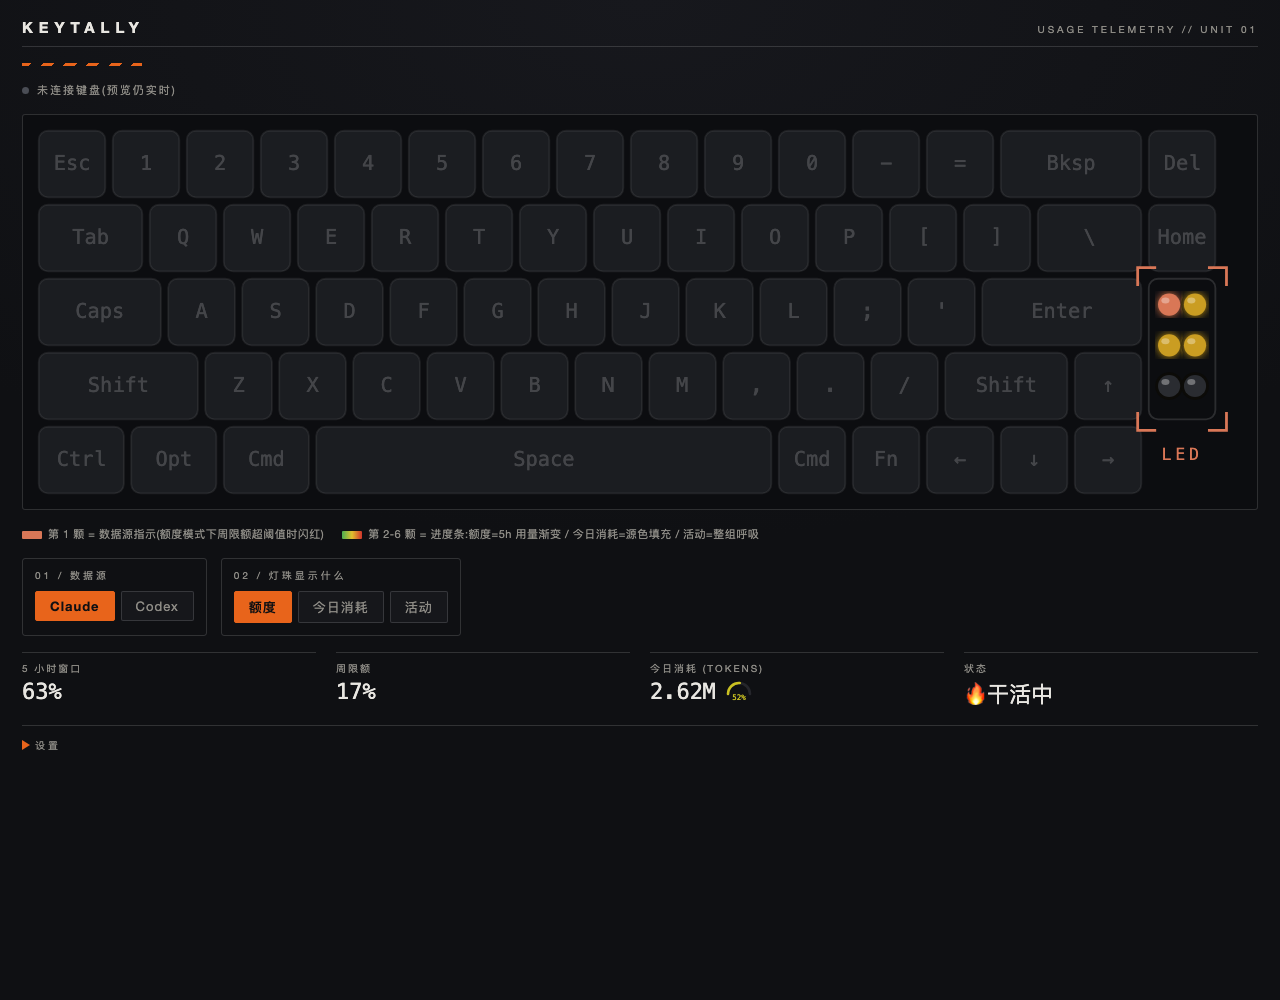
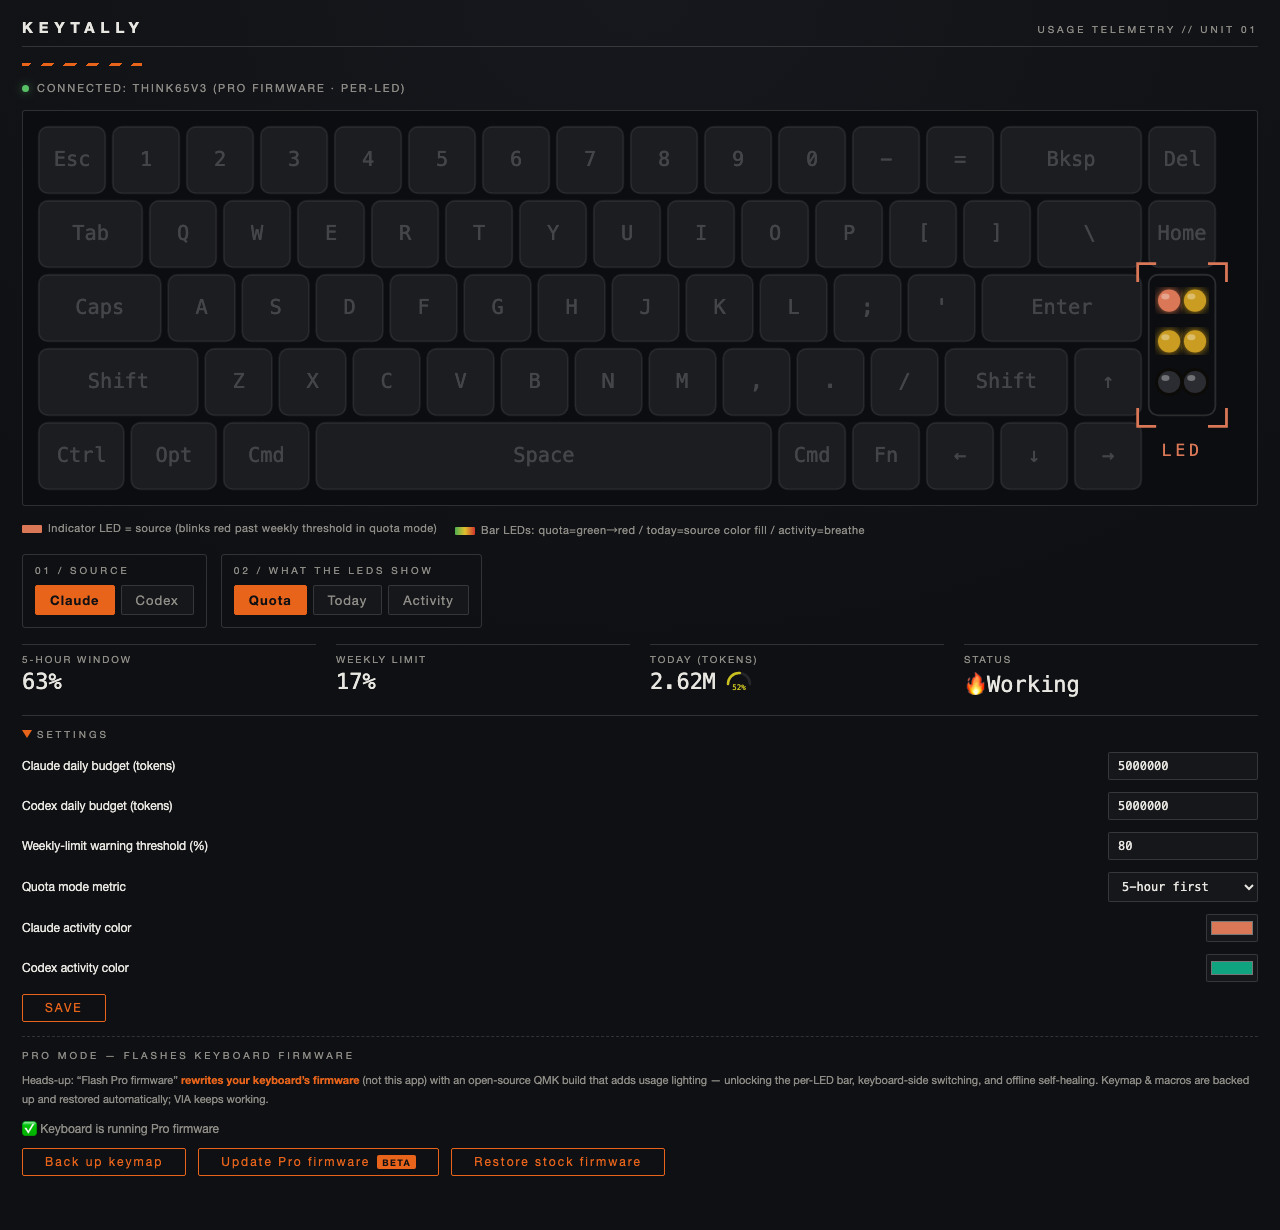
feat: bilingual UI (auto EN/zh by OS locale) + onboarding docs pass
- frontend i18n: all labels, stats, PRO section, LED panel, flash
  progress messages translated; static HTML swapped at load for EN
- screenshot rig: ?pro&settings simulates connected Pro state with
  settings expanded; hero re-shot in English with device connected
- hooks/README.md with exact settings.json / config.toml snippets
- README: Releases download section, credentials/privacy FAQ,
  firmware prereqs spelled out (tap trust, qmk_firmware checkout)

diff --git a/app/src/i18n.ts b/app/src/i18n.ts
@@ -1,0 +1,94 @@
+// 极简 i18n:跟随系统语言,中文默认,其余英文
+export const ZH = navigator.language.toLowerCase().startsWith("zh");
+export const t = (zh: string, en: string): string => (ZH ? zh : en);
+
+// index.html 静态文案的英文替换(zh 为 HTML 默认)
+export function applyStaticEn() {
+  if (ZH) return;
+  const set = (sel: string, text: string) => {
+    const el = document.querySelector(sel);
+    if (el) el.childNodes[0]!.textContent = text;
+  };
+  const setAll: [string, string][] = [
+    ['#source-seg', ''], // placeholder
+  ];
+  void setAll;
+  // 分区标签
+  const secs = document.querySelectorAll(".sec-label");
+  if (secs[0]) secs[0].textContent = "01 / SOURCE";
+  if (secs[1]) secs[1].textContent = "02 / WHAT THE LEDS SHOW";
+  const pro = document.querySelector(".pro .sec-label");
+  if (pro) pro.textContent = "PRO MODE — FLASHES KEYBOARD FIRMWARE";
+  // 模式按钮
+  const modes = ["Quota", "Today", "Activity"];
+  document.querySelectorAll<HTMLButtonElement>("#mode-seg button").forEach((b, i) => (b.textContent = modes[i] ?? b.textContent));
+  // 设置区
+  set(".settings summary", "SETTINGS");
+  const labels = document.querySelectorAll(".settings > label");
+  const lt = [
+    "Claude daily budget (tokens)",
+    "Codex daily budget (tokens)",
+    "Weekly-limit warning threshold (%)",
+    "Quota mode metric",
+    "Claude activity color",
+    "Codex activity color",
+  ];
+  labels.forEach((l, i) => {
+    if (lt[i]) l.childNodes[0]!.textContent = lt[i] + " ";
+  });
+  const opts = document.querySelectorAll("#quota-metric option");
+  const ot = ["5-hour first", "Weekly first", "Max of both"];
+  opts.forEach((o, i) => (o.textContent = ot[i] ?? o.textContent));
+  set("#save-config", "SAVE");
+  // PRO 区
+  const note = document.querySelector(".pro-note");
+  if (note)
+    note.innerHTML =
+      'Heads-up: “Flash Pro firmware” <b>rewrites your keyboard\u2019s firmware</b> (not this app) with an open-source QMK build that adds usage lighting — unlocking the per-LED bar, keyboard-side switching, and offline self-healing. Keymap & macros are backed up and restored automatically; VIA keeps working.';
+  set("#backup-keymap", "Back up keymap");
+  set("#restore-stock", "Restore stock firmware");
+  const ul = document.querySelector("#upgrade-label");
+  if (ul) ul.textContent = "Flash Pro firmware";
+  // 灯位面板
+  const roleBtns = document.querySelectorAll<HTMLButtonElement>("#led-panel button[data-role]");
+  const rt = ["Usage progress bar", "Source indicator", "Not involved (keep my lighting)"];
+  // data-role 顺序: 1,2,0
+  const order = ["1", "2", "0"];
+  roleBtns.forEach((b) => {
+    const i = order.indexOf(b.dataset.role ?? "");
+    if (i >= 0) b.textContent = ["Usage progress bar", "Source indicator", "Not involved (keep my lighting)"][i];
+  });
+  void rt;
+  set("#led-clear", "Clear selection");
+  const styleRow = document.querySelector("#bar-style-row");
+  if (styleRow) {
+    styleRow.childNodes.forEach((n) => {
+      if (n.nodeType === 3 && n.textContent?.includes("进度条样式")) n.textContent = " Bar style: ";
+    });
+    const sb = document.querySelectorAll<HTMLButtonElement>("#bar-style-row button");
+    if (sb[0]) sb[0].textContent = "Count (lit LEDs = %)";
+    if (sb[1]) sb[1].textContent = "Color (all lit, green→red)";
+  }
+}
+
+// Rust 刷机进度消息的英文映射(精确匹配,未命中保留原文)
+const PROGRESS: Record<string, string> = {
+  "① 备份键位与宏…": "① Backing up keymap & macros…",
+  "②/③ 进入 bootloader…": "②/③ Entering bootloader…",
+  "尝试软件进入 bootloader…": "Trying software bootloader jump…",
+  "固件不响应软件跳转,改用按键方案…": "Firmware ignores the soft jump — switching to key method…",
+  "请在键盘上按 Fn+Esc 进入刷机模式(等待 120 秒)…": "Press Fn+Esc on the keyboard to enter flash mode (waiting 120 s)…",
+  "④ 备份原厂固件…": "④ Reading out factory firmware…",
+  "④ 刷入 Pro 固件…(约 10 秒,勿拔线)": "④ Flashing Pro firmware… (~10 s, do not unplug)",
+  "⑤ 等待键盘重连…": "⑤ Waiting for the keyboard to reconnect…",
+  "⑥ 写回键位备份…": "⑥ Restoring keymap backup…",
+  "✅ 完成!已运行 Pro 固件,键位已恢复": "✅ Done! Pro firmware running, keymap restored",
+  "② 刷入还原固件…": "② Flashing restore firmware…",
+  "③ 等待键盘重连…": "③ Waiting for the keyboard to reconnect…",
+  "④ 写回键位备份…": "④ Restoring keymap backup…",
+  "✅ 已还原,键盘恢复为普通 VIA 键盘": "✅ Restored — the keyboard is a plain VIA keyboard again",
+};
+export function trProgress(msg: string): string {
+  if (ZH) return msg;
+  return PROGRESS[msg] ?? msg;
+}

diff --git a/app/src/main.ts b/app/src/main.ts
@@ -1,6 +1,7 @@
 import { invoke } from "@tauri-apps/api/core";
 import { listen } from "@tauri-apps/api/event";
 import { LED_DB } from "./led-db";
+import { applyStaticEn, t, trProgress } from "./i18n";
 import {
   ACCENTS,
   applyCustom,
@@ -66,9 +67,9 @@ function renderLedPanel() {
   }
   panel.hidden = false;
   const roles = currentRoles();
-  const names = ["不参与", "进度条", "源指示"];
+  const names = [t("不参与", "none"), t("进度条", "bar"), t("源指示", "indicator")];
   const summary = [...ledSel].sort((a, b) => a - b).map((i) => `${i + 1}(${names[roles[i] ?? 0]})`).join(" ");
-  $("#led-panel-info").textContent = `已选 ${ledSel.size} 颗灯:${summary} → 设为:`;
+  $("#led-panel-info").textContent = t(`已选 ${ledSel.size} 颗灯:${summary} → 设为:`, `${ledSel.size} LED(s) selected: ${summary} → set as:`);
   // 选区内所有灯职责一致时,高亮对应按钮
   const uniform = [...ledSel].every((i) => roles[i] === roles[[...ledSel][0]]) ? roles[[...ledSel][0]] : null;
   panel.querySelectorAll<HTMLButtonElement>("button[data-role]").forEach((b) => {
@@ -127,23 +128,23 @@ function render() {
   const legend = $(".legend");
   if (kb.backend === "pro") {
     legend.innerHTML = `
-      <span><i class="chip" style="background:${ACCENTS[kb.source] ?? ACCENTS[0]}"></i>第 1 颗 = 数据源指示(额度模式下周限额超阈值时闪红)</span>
-      <span><i class="chip grad"></i>第 2-6 颗 = 进度条:额度=5h 用量渐变 / 今日消耗=源色填充 / 活动=整组呼吸</span>`;
+      <span><i class="chip" style="background:${ACCENTS[kb.source] ?? ACCENTS[0]}"></i>${t("指示灯 = 数据源(额度模式下周限额超阈值时闪红)", "Indicator LED = source (blinks red past weekly threshold in quota mode)")}</span>
+      <span><i class="chip grad"></i>${t("进度条灯:额度=5h 用量渐变 / 今日消耗=源色填充 / 活动=整组呼吸", "Bar LEDs: quota=green→red / today=source color fill / activity=breathe")}</span>`;
   } else {
     legend.innerHTML = `
-      <span><i class="chip grad"></i>灯色 = 用量 0→100%</span>
-      <span><i class="chip" style="background:#e8641b"></i>活动中 = 亮这个颜色</span>
-      <span><i class="chip warn"></i>红闪 = 周限额超阈值</span>`;
+      <span><i class="chip grad"></i>${t("灯色 = 用量 0→100%", "Light color = usage 0→100%")}</span>
+      <span><i class="chip" style="background:#e8641b"></i>${t("活动中 = 亮这个颜色", "Active = glows this color")}</span>
+      <span><i class="chip warn"></i>${t("红闪 = 周限额超阈值", "Red blink = weekly limit past threshold")}</span>`;
   }
   const backendLabel =
     kb.backend === "pro"
-      ? "Pro 固件·逐灯"
+      ? t("Pro 固件·逐灯", "Pro firmware · per-LED")
       : kb.lighting === "rgb_matrix"
-        ? "VIA 通用·整板同色"
-        : "VIA 通用·灯带同色";
+        ? t("VIA 通用·整板同色", "Universal VIA · whole-board")
+        : t("VIA 通用·灯带同色", "Universal VIA · light strip");
   $("#conn-text").textContent = kb.connected
-    ? `已连接:${kb.device_name ?? "QMK 键盘"}(${backendLabel})`
-    : "未连接键盘(预览仍实时)";
+    ? t(`已连接:${kb.device_name ?? "QMK 键盘"}(${backendLabel})`, `Connected: ${kb.device_name ?? "QMK keyboard"} (${backendLabel})`)
+    : t("未连接键盘(预览仍实时)", "No keyboard connected (preview stays live)");
 
   for (const btn of document.querySelectorAll<HTMLButtonElement>("#source-seg button")) {
     btn.classList.toggle("active", Number(btn.dataset.source) === kb.source);
@@ -177,10 +178,10 @@ function render() {
   const u: SourceUsage = kb.source === 0 ? snapshot.claude : snapshot.codex;
   const todayPct = budget > 0 ? (u.today_tokens * 100) / budget : null;
   $("#stats").innerHTML = `
-    <div class="stat"><span class="k">5 小时窗口</span><span class="v">${fmtPct(u.five_hour_pct)}</span></div>
-    <div class="stat"><span class="k">周限额</span><span class="v">${fmtPct(u.weekly_pct)}</span></div>
-    <div class="stat"><span class="k">今日消耗 (tokens)</span><span class="v">${fmtTokens(u.today_tokens)}${todayPct === null ? "" : gaugeHtml(todayPct)}</span></div>
-    <div class="stat"><span class="k">状态</span><span class="v">${u.valid ? (u.active ? "🔥干活中" : "空闲") : "未安装"}</span></div>`;
+    <div class="stat"><span class="k">${t("5 小时窗口", "5-hour window")}</span><span class="v">${fmtPct(u.five_hour_pct)}</span></div>
+    <div class="stat"><span class="k">${t("周限额", "Weekly limit")}</span><span class="v">${fmtPct(u.weekly_pct)}</span></div>
+    <div class="stat"><span class="k">${t("今日消耗 (tokens)", "Today (tokens)")}</span><span class="v">${fmtTokens(u.today_tokens)}${todayPct === null ? "" : gaugeHtml(todayPct)}</span></div>
+    <div class="stat"><span class="k">${t("状态", "Status")}</span><span class="v">${u.valid ? (u.active ? t("🔥干活中", "🔥Working") : t("空闲", "Idle")) : t("未安装", "Not installed")}</span></div>`;
 }
 
 const PRO_BOARDS = new Set(["4753:4003"]); // 已适配 Pro 固件的板子(开源后社区扩充)
@@ -194,17 +195,17 @@ function renderPro() {
   const restoreBtn = $<HTMLButtonElement>("#restore-stock");
   restoreBtn.disabled = !(kb.connected && kb.backend === "pro");
   if (!kb.connected) {
-    statusEl.textContent = "键盘未连接";
+    statusEl.textContent = t("键盘未连接", "No keyboard connected");
     btn.disabled = true;
   } else if (kb.backend === "pro") {
-    statusEl.textContent = "✅ 键盘已运行 Pro 固件";
+    statusEl.textContent = t("✅ 键盘已运行 Pro 固件", "✅ Keyboard is running Pro firmware");
     btn.disabled = !PRO_BOARDS.has(key);
-    $("#upgrade-label").textContent = "更新 Pro 固件";
+    $("#upgrade-label").textContent = t("更新 Pro 固件", "Update Pro firmware");
   } else if (PRO_BOARDS.has(key)) {
-    statusEl.textContent = "本键盘已有可刷的 Pro 固件";
+    statusEl.textContent = t("本键盘已有可刷的 Pro 固件", "Pro firmware available for this board");
     btn.disabled = false;
   } else {
-    statusEl.textContent = "该型号暂无 Pro 固件(需社区适配)";
+    statusEl.textContent = t("该型号暂无 Pro 固件(需社区适配)", "No Pro firmware for this model yet (community adaptation welcome)");
     btn.disabled = true;
   }
 }
@@ -220,6 +221,7 @@ function fillSettings() {
 }
 
 window.addEventListener("DOMContentLoaded", async () => {
+  applyStaticEn();
   $("#source-seg").addEventListener("click", (e) => {
     const btn = (e.target as HTMLElement).closest("button");
     if (!btn || !state) return;
@@ -257,7 +259,7 @@ window.addEventListener("DOMContentLoaded", async () => {
     });
     state = await invoke<FullState>("get_state");
     await listen<string>("pro-progress", (e) => {
-      $("#pro-progress").textContent = e.payload;
+      $("#pro-progress").textContent = trProgress(e.payload);
     });
   } catch {
     // 非 Tauri 环境(纯浏览器调 UI)→ 演示数据
@@ -267,10 +269,13 @@ window.addEventListener("DOMContentLoaded", async () => {
         codex: { valid: true, five_hour_pct: null, weekly_pct: 1, today_tokens: 0, active: false },
       },
       kb: {
-        mode: 0, source: 0, connected: false, device_name: null,
-        // 浏览器调试:?pro 强制逐灯编辑模式
+        mode: 0, source: 0,
+        // 浏览器调试:?pro 模拟已连接的 Pro 状态(用于截图/UI 调试)
+        connected: location.search.includes("pro"),
+        device_name: location.search.includes("pro") ? "think65v3" : null,
         backend: location.search.includes("pro") ? "pro" : null,
-        lighting: null, vid: 0x4753, pid: 0x4003,
+        lighting: location.search.includes("pro") ? "per-led" : null,
+        vid: 0x4753, pid: 0x4003,
       },
       config: { claude_daily_budget: 5_000_000, codex_daily_budget: 5_000_000, warn_threshold: 80, quota_metric: 0, claude_color: "#D97757", codex_color: "#10A37F" },
     };
@@ -278,6 +283,7 @@ window.addEventListener("DOMContentLoaded", async () => {
   render();
   renderPro();
   fillSettings();
+  if (location.search.includes("settings")) $(".settings").setAttribute("open", "");
 
   // ---- 灯位选区编辑(Pro 模式):点选 / 拖拽框选,下方弹出职责面板 ----
   const preview = $("#preview");
@@ -350,9 +356,9 @@ window.addEventListener("DOMContentLoaded", async () => {
   $("#backup-keymap").addEventListener("click", async () => {
     try {
       const path = await invoke<string>("backup_keymap");
-      $("#pro-progress").textContent = `键位已备份到 ${path}`;
+      $("#pro-progress").textContent = t(`键位已备份到 ${path}`, `Keymap backed up to ${path}`);
     } catch (e) {
-      $("#pro-progress").textContent = `备份失败:${e}`;
+      $("#pro-progress").textContent = t(`备份失败:${e}`, `Backup failed: ${e}`);
     }
   });
 
@@ -369,13 +375,15 @@ window.addEventListener("DOMContentLoaded", async () => {
   $("#upgrade-pro").addEventListener("click", async () => {
     const btn = $<HTMLButtonElement>("#upgrade-pro");
     if (upgradeArmed === null) {
-      $("#upgrade-label").textContent = "再点一次,确认改写键盘固件";
+      $("#upgrade-label").textContent = t("再点一次,确认改写键盘固件", "Click again to confirm firmware rewrite");
       btn.classList.add("armed");
-      $("#pro-progress").textContent =
-        "将改写键盘固件:备份键位/宏 → 进 DFU → 刷入 → 写回;约 1 分钟,期间键盘短暂失灵,勿拔线。";
+      $("#pro-progress").textContent = t(
+        "将改写键盘固件:备份键位/宏 → 进 DFU → 刷入 → 写回;约 1 分钟,期间键盘短暂失灵,勿拔线。",
+        "This rewrites the keyboard firmware: backup keymap/macros → DFU → flash → restore. ~1 min; keyboard goes dark briefly — don't unplug."
+      );
       upgradeArmed = window.setTimeout(() => {
         upgradeArmed = null;
-        $("#upgrade-label").textContent = state?.kb.backend === "pro" ? "更新 Pro 固件" : "刷入 Pro 固件";
+        $("#upgrade-label").textContent = state?.kb.backend === "pro" ? t("更新 Pro 固件", "Update Pro firmware") : t("刷入 Pro 固件", "Flash Pro firmware");
         btn.classList.remove("armed");
         $("#pro-progress").textContent = "";
       }, 6000);
@@ -383,7 +391,7 @@ window.addEventListener("DOMContentLoaded", async () => {
     }
     clearTimeout(upgradeArmed);
     upgradeArmed = null;
-    $("#upgrade-label").textContent = state?.kb.backend === "pro" ? "更新 Pro 固件" : "刷入 Pro 固件";
+    $("#upgrade-label").textContent = state?.kb.backend === "pro" ? t("更新 Pro 固件", "Update Pro firmware") : t("刷入 Pro 固件", "Flash Pro firmware");
     btn.classList.remove("armed");
     try {
       await invoke("upgrade_to_pro");

diff --git a/hooks/README.md b/hooks/README.md
@@ -1,0 +1,31 @@
+# Activity hooks (optional, recommended)
+
+Without hooks, KeyTally infers "AI is working" from session-log file timestamps — good, but it can lag ~10 s and can't tell "working" from "any session writing". With hooks, activity becomes **event-precise**.
+
+## Claude Code
+
+`claude-state-hook.sh` marks busy/idle per session. Add to `~/.claude/settings.json` (merge into your existing `hooks`, don't replace):
+
+```json
+{
+  "hooks": {
+    "UserPromptSubmit": [{ "matcher": "", "hooks": [{ "type": "command", "command": "\"/path/to/keytally/hooks/claude-state-hook.sh\" busy", "async": true, "timeout": 10 }] }],
+    "Stop":             [{ "matcher": "", "hooks": [{ "type": "command", "command": "\"/path/to/keytally/hooks/claude-state-hook.sh\" idle", "async": true, "timeout": 10 }] }],
+    "SessionEnd":       [{ "matcher": "", "hooks": [{ "type": "command", "command": "\"/path/to/keytally/hooks/claude-state-hook.sh\" idle", "async": true, "timeout": 10 }] }]
+  }
+}
+```
+
+## Codex
+
+Codex supports a single `notify` program. Point it at `codex-notify.sh` in `~/.codex/config.toml` (top-level, before any `[section]`):
+
+```toml
+notify = ["/path/to/keytally/hooks/codex-notify.sh"]
+```
+
+Already have a `notify` configured? Chain it — see `codex-notify-chain.sh` for an example that calls the original program first, then writes KeyTally's marker. (That file contains a machine-specific path; adapt it.)
+
+## How it works
+
+Hooks write tiny state files under `~/Library/Application Support/com.ysw.qmk-usage-lights/state/`. The app reads them; if none exist it falls back to timestamp watching. Stale files (>30 min) are ignored, so crashed sessions can't stick the light on.

diff --git a/README.md b/README.md
@@ -55,7 +55,11 @@ Safety first: all universal-mode writes are volatile (never saved to EEPROM) —
 
 ## Install
 
-Prebuilt releases are planned; for now, build from source (macOS, Apple Silicon):
+### Download (macOS, Apple Silicon)
+
+Grab the `.dmg` from [**Releases**](https://github.com/siwei-yuan/keytally/releases). The build is unsigned for now — on first launch, right-click the app → **Open** (or `xattr -dr com.apple.quarantine /Applications/KeyTally.app`).
+
+### Build from source
 
 ```sh
 # prerequisites: Rust (rustup.rs) and Node 20+
@@ -67,8 +71,8 @@ npm run tauri build        # or: npm run tauri dev
 
 The app lives in your menu bar. Optional extras:
 
-- **Pro firmware builds** need the QMK toolchain: `brew install qmk/qmk/qmk`, then `./firmware/build.sh`
-- **Event-precise activity detection** hooks into Claude Code (`~/.claude/settings.json` hooks) and Codex (`notify` in `~/.codex/config.toml`) — see [hooks/](hooks/). Without them the app falls back to watching session-log timestamps.
+- **Pro firmware builds** need the QMK toolchain and a QMK checkout — see [firmware/README.md](firmware/README.md)
+- **Event-precise activity detection** hooks into Claude Code and Codex — setup snippets in [hooks/README.md](hooks/README.md). Without them the app falls back to watching session-log timestamps.
 
 ## Quick start
 
@@ -117,6 +121,8 @@ Roles persist per keyboard and re-apply on every connect.
 **Will Pro flashing lose my keymap?** No. Keymap and macros are dumped before flashing and restored after. VIA keeps working on the Pro firmware (our protocol rides command IDs VIA ignores).
 
 **Bluetooth?** No — Raw HID requires a wired USB connection.
+
+**What credentials does it touch?** KeyTally reads the Claude Code OAuth token from your macOS Keychain to call Anthropic's own usage endpoint (the same one `/usage` uses) — it refreshes and writes back in the exact format Claude Code expects, and nothing is sent anywhere else. Codex data comes purely from local session logs.
 
 **Windows/Linux?** The collectors and HID layer are portable Rust; only macOS-specific bits are the Keychain reader and hook paths. PRs welcome.
 

diff --git a/firmware/README.md b/firmware/README.md
@@ -16,8 +16,15 @@ build.sh     编译 / 刷机脚本
 ./build.sh flash    # 编译并刷机(需先按 PCB 背面 reset 键进 DFU 模式)
 ```
 
-依赖:`brew install qmk/qmk/qmk`(需 trust qmk/qmk、osx-cross/arm、osx-cross/avr
-三个官方 tap)+ `~/qmk_firmware` 检出。
+依赖(一次性):
+
+```sh
+brew tap osx-cross/arm && brew tap osx-cross/avr
+brew trust qmk/qmk && brew trust osx-cross/arm && brew trust osx-cross/avr   # 新版 brew 需要
+brew install qmk/qmk/qmk
+git clone --depth 1 --recurse-submodules --shallow-submodules https://github.com/qmk/qmk_firmware ~/qmk_firmware
+qmk config user.qmk_home=$HOME/qmk_firmware
+```
 
 ## 灯效方案(6 灯)
 